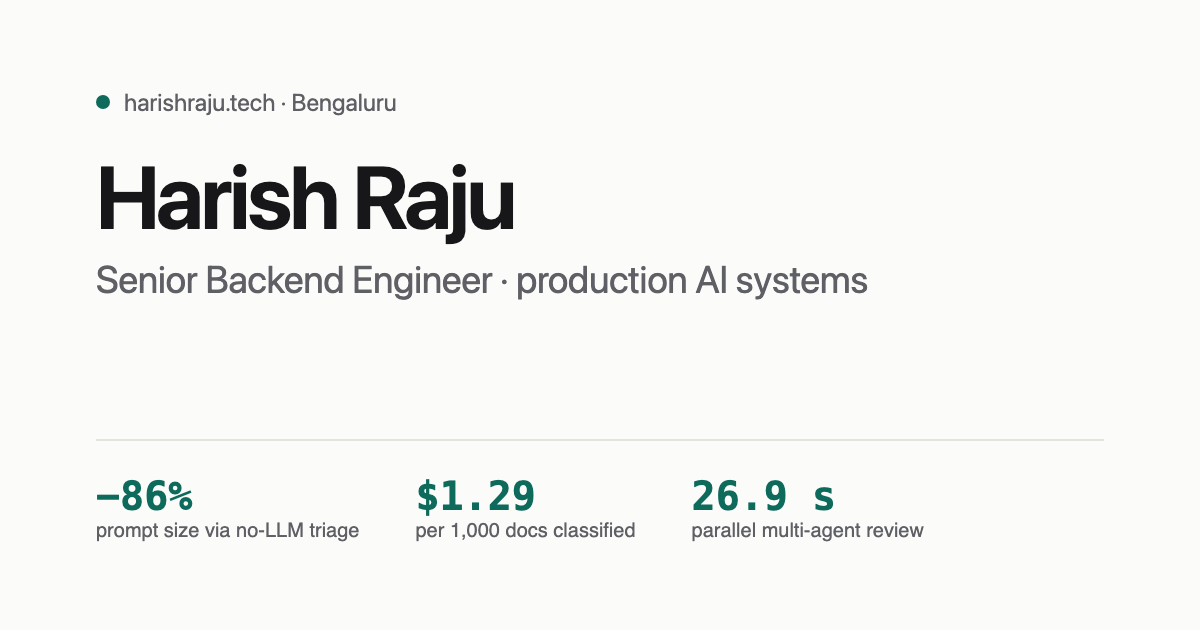
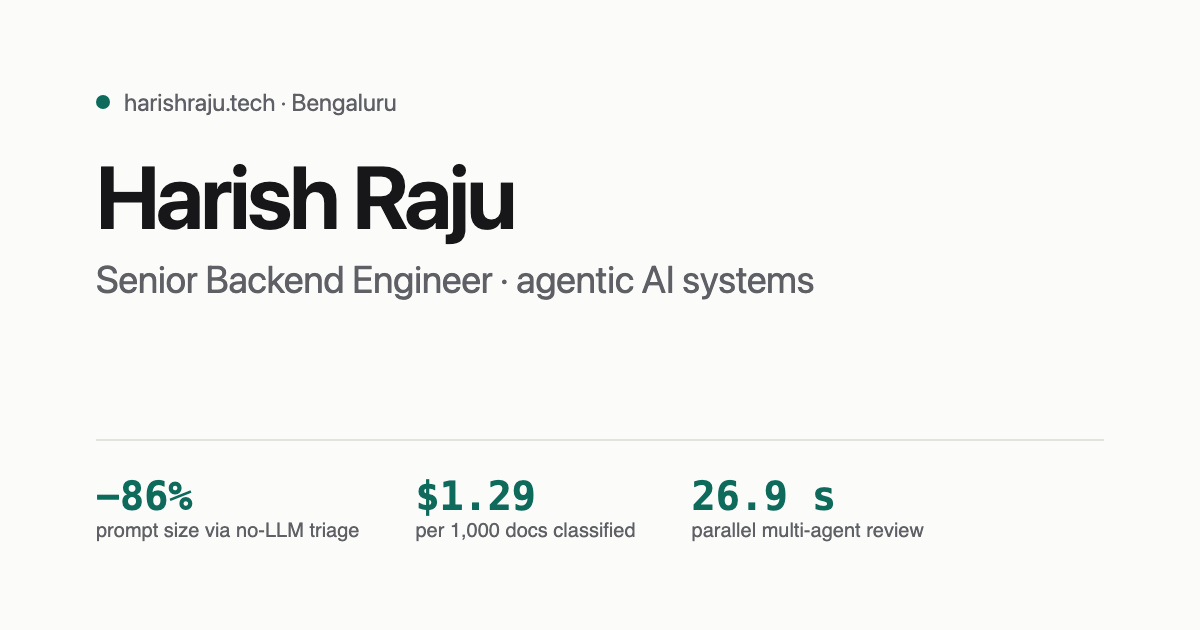
Reframe the hero around agentic system design
Claude-Session: https://claude.ai/code/session_01DiMAspcP4ukrNc9FkGSKJC

Changed region(s): [[0.4317, 0.4222, 0.74, 0.4825]]

diff --git a/index.html b/index.html
@@ -4,7 +4,7 @@
 <meta charset="utf-8">
 <meta name="viewport" content="width=device-width, initial-scale=1">
 <title>Harish Raju · Senior Backend Engineer, AI Systems</title>
-<meta name="description" content="Senior backend engineer in Bengaluru with 8 years in C#/.NET and Node/TypeScript, now building production LLM services: agents, RAG, evals, cost tracking and failure isolation.">
+<meta name="description" content="Senior backend engineer in Bengaluru designing agentic AI systems: multi-agent workflows, tool use, human-in-the-loop review, evals and guardrails. 8 years in C#/.NET and Node/TypeScript, now with Python.">
 <link rel="canonical" href="https://harishraju.tech/">
 <meta name="color-scheme" content="light">
 <meta name="theme-color" content="#fbfbf9">
@@ -12,7 +12,7 @@
 <meta property="og:type" content="profile">
 <meta property="og:url" content="https://harishraju.tech/">
 <meta property="og:title" content="Harish Raju · Senior Backend Engineer, AI Systems">
-<meta property="og:description" content="Production LLM services with evals, fallbacks, cost tracking and failure isolation. Case studies with real numbers.">
+<meta property="og:description" content="Agentic AI systems: multi-agent workflows, human-in-the-loop review, evals and guardrails. Case studies with real numbers.">
 <meta property="og:image" content="https://harishraju.tech/assets/og.png">
 <meta property="og:image:width" content="1200">
 <meta property="og:image:height" content="630">
@@ -30,7 +30,7 @@
   "url": "https://harishraju.tech/",
   "jobTitle": "Senior Backend Engineer",
   "address": { "@type": "PostalAddress", "addressLocality": "Bengaluru", "addressCountry": "IN" },
-  "knowsAbout": ["Backend engineering", "LLM applications", "AI agents", "LangGraph", "RAG", "LLM evaluation", "TypeScript", "Python", "C#", ".NET", "PostgreSQL", "AWS Bedrock", "Docker"],
+  "knowsAbout": ["Backend engineering", "Agentic AI systems", "Multi-agent workflows", "AI agents", "Human-in-the-loop AI", "LangGraph", "RAG", "LLM evaluation", "TypeScript", "Python", "C#", ".NET", "PostgreSQL", "AWS Bedrock", "Docker"],
   "sameAs": ["https://github.com/harisharaju1", "https://www.linkedin.com/in/harish-raju"]
 }
 </script>
@@ -59,8 +59,9 @@
     <section class="hero" aria-labelledby="name">
       <div class="status"><span class="dot" aria-hidden="true"></span>Bengaluru · Open to Senior Backend and AI engineering roles</div>
       <h1 id="name">Harish Raju</h1>
-      <p class="role">Senior Backend Engineer · production AI systems</p>
-      <p class="lede">I've spent eight years building backend systems in C#/.NET and Node/TypeScript. This year I've been building services that call LLMs, in TypeScript and Python. I care most about the engineering around the model call: evals that catch regressions, fallbacks when the model isn't sure, cost tracking for every request, and failures that stay contained.</p>
+      <p class="role">Senior Backend Engineer · agentic AI systems</p>
+      <p class="lede">I design agentic systems: AI that investigates, decides and knows when to hand off. That means specialist agents that choose their own tools and run in parallel, deterministic steps that keep the model out of decisions plain code can make, and human-in-the-loop review when confidence drops. All of it is measured, with evals that catch regressions, guardrails against prompt injection, and a cost on every agent run.</p>
+      <p class="lede">Underneath is eight years of backend engineering in C#/.NET and Node/TypeScript, now with Python. That's why the system around the model gets as much care as the model.</p>
       <div class="links">
         <a href="https://github.com/harisharaju1">GitHub</a>
         <a href="https://www.linkedin.com/in/harish-raju">LinkedIn</a>
